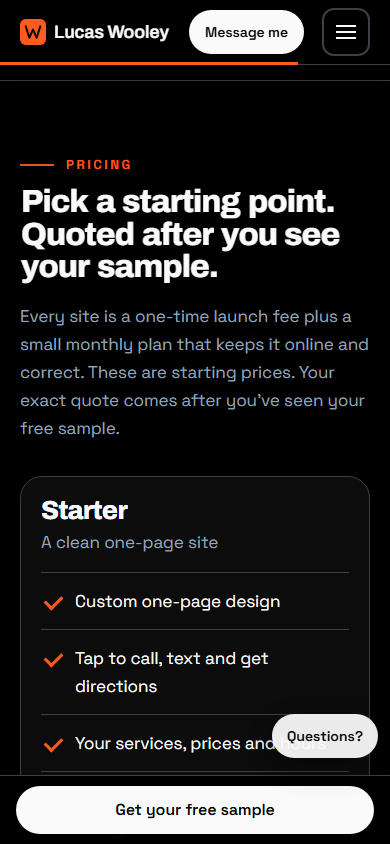
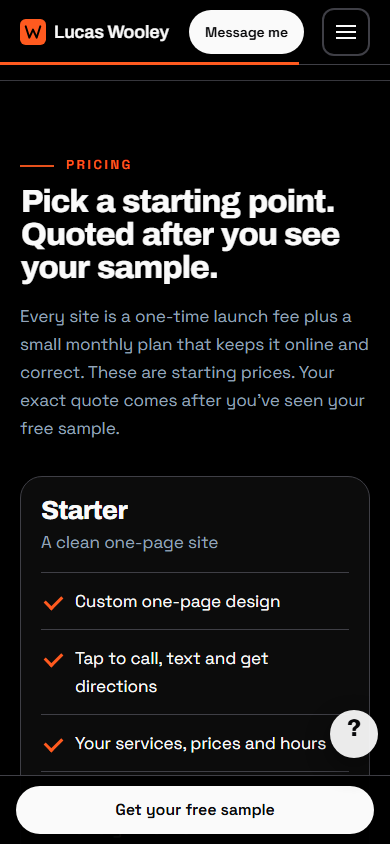
v2: fix cut-off bottom cards (class-name collisions), complete Real reviews and Kept running cards, grid and headline fit every screen size, caption alignment

diff --git a/sites/self-v2/dist/index.html b/sites/self-v2/dist/index.html
@@ -191,7 +191,7 @@ a.shot:hover .win{transform:translateY(-5px)}
 .sim li::after{content:"\203A";color:var(--pacc,#c2410c);font-weight:700}
 .sim .dock{margin:auto -16px 0;display:grid;grid-template-columns:repeat(3,1fr);background:color-mix(in srgb,currentColor 92%,transparent);color:var(--pbg,#fafafa);text-align:center;font:600 10px/1 'Space Grotesk',sans-serif;letter-spacing:.1em;text-transform:uppercase}
 .sim .dock span{padding:14px 0}
-.cap{margin-top:14px;font-size:13px;color:var(--muted);text-align:center;max-width:280px}
+
 section{padding:76px 0;border-top:1px solid var(--line)}
 .dockbar{position:fixed;left:0;right:0;bottom:0;z-index:25;background:rgba(0,0,0,.96);border-top:1px solid var(--line);padding:10px 16px calc(10px + env(safe-area-inset-bottom));display:none}
 .dockbar .btn{width:100%}
@@ -344,9 +344,9 @@ html{scroll-padding-top:80px}
 .stext h1 em{font-style:normal;color:var(--gold)}
 .caps{display:grid;min-height:8.2em;max-width:46ch}
 .chap{display:block;margin-bottom:6px;font:600 13px 'Space Grotesk',sans-serif;letter-spacing:.18em;text-transform:uppercase;color:var(--gold)}
-.cap p{margin:0}
-.cap{grid-area:1/1;margin:0;color:var(--muted);font-size:clamp(16px,2.2vw,20px);line-height:1.5;opacity:0;visibility:hidden;transform:translateY(8px);transition:opacity .28s cubic-bezier(.23,1,.32,1),transform .28s cubic-bezier(.23,1,.32,1),visibility 0s .28s}
-.cap.on{opacity:1;visibility:visible;transform:none;transition-delay:0s}
+.scap p{margin:0}
+.scap{grid-area:1/1;margin:0;color:var(--muted);font-size:clamp(16px,2.2vw,20px);line-height:1.5;opacity:0;visibility:hidden;transform:translateY(8px);transition:opacity .28s cubic-bezier(.23,1,.32,1),transform .28s cubic-bezier(.23,1,.32,1),visibility 0s .28s}
+.scap.on{opacity:1;visibility:visible;transform:none;transition-delay:0s}
 .stext .cta{margin-top:18px}
 @media (max-width:899px){.stext .trust{display:none}.stext .k{font-size:13px}.stext .cta{margin-top:12px}.stext .btn{min-height:46px;padding:0 20px;font-size:15px}}
 .scrollhint{margin-top:18px;font:600 12px 'Space Grotesk',sans-serif;letter-spacing:.16em;text-transform:uppercase;color:var(--gold)}
@@ -355,7 +355,7 @@ html{scroll-padding-top:80px}
 .pieces{width:100%;height:100%;max-height:100%;overflow:visible}
 .stage .bg{z-index:0}
 .shopdone{display:block;width:min(100%,380px);height:auto;margin:30px 0 8px}
-@media (prefers-reduced-motion:reduce){.story{height:auto}.stage{position:relative;top:0;height:auto;padding:36px 0 20px}.scrollhint{display:none}.cap{transition:none}}
+@media (prefers-reduced-motion:reduce){.story{height:auto}.stage{position:relative;top:0;height:auto;padding:36px 0 20px}.scrollhint{display:none}.scap{transition:none}}
 .pieces [data-p]{transition:filter .25s}
 .pieces [data-p].hot{filter:drop-shadow(0 0 8px rgba(255,90,31,.9))}
 
@@ -470,7 +470,7 @@ a.shot:hover .win{box-shadow:0 0 0 2px #fafafa,0 26px 50px rgba(0,0,0,.6)}
 .pc.hot{border-color:var(--gold);box-shadow:0 0 0 1px var(--gold),0 0 34px rgba(255,90,31,.5)}
 .pc .pt{margin:0;font:700 13px/1.2 'Space Grotesk',sans-serif;letter-spacing:.14em;text-transform:uppercase;color:#a1a1aa}
 .pc svg{width:18px;height:18px;flex:none}
-.pc .row{display:flex;align-items:center;gap:8px;flex-wrap:wrap}
+.pc .prow{display:flex;align-items:center;gap:8px;flex-wrap:wrap}
 .pc .pill{display:inline-flex;align-items:center;gap:6px;min-height:34px;padding:0 14px;border-radius:999px;border:1.5px solid #52525b;font:600 14px/1 'Space Grotesk',sans-serif}
 .pc .pill.solid{background:#fafafa;color:#09090b;border-color:#fafafa}
 .pc .stars{font-style:normal;color:var(--gold);letter-spacing:2px;font-size:15px}
@@ -491,7 +491,7 @@ a.shot:hover .win{box-shadow:0 0 0 2px #fafafa,0 26px 50px rgba(0,0,0,.6)}
 .pc-serv li{display:flex;justify-content:space-between;padding:5px 0;border-top:1px solid #27272a;font-size:14px}
 .pc-serv li::after{content:"\203A";color:var(--gold);font-weight:700}
 .pc-hours{grid-column:3/5}
-.pc-hours .row svg{color:var(--gold)}
+.pc-hours .prow svg{color:var(--gold)}
 .pc-follow{grid-column:5/7}
 .pc-follow .bub{padding:7px 11px;border-radius:14px 14px 14px 4px;background:#27272a;font-size:13px;align-self:flex-start}
 .pc-follow .bub.me{background:var(--gold);color:#09090b;border-radius:14px 14px 4px 14px;align-self:flex-end;font-weight:600}
@@ -557,6 +557,87 @@ a.shot:hover .win{box-shadow:0 0 0 2px #fafafa,0 26px 50px rgba(0,0,0,.6)}
   .ask-fab{width:48px;height:48px;min-height:48px;padding:0;font-size:0;border-radius:50%;display:grid;place-items:center;right:12px}
   .ask-fab::before{content:"?";font:800 24px/1 Archivo,'Helvetica Neue',Arial,sans-serif;color:#09090b}
 }
+
+/* bento: always fits inside the screen, and the last two cards are complete */
+.sart{align-self:stretch;display:flex;align-items:center;min-height:0}
+.bento{height:100%;max-height:calc(100vh - 64px - 56px);max-height:calc(100dvh - 64px - 56px);grid-template-rows:repeat(4,minmax(0,1fr));grid-auto-rows:auto;align-content:center}
+.pc{min-height:0}
+.pc .tiny{font-size:13px;color:#a1a1aa}
+.pc .sk{display:grid;gap:6px}
+.pc .sk i{display:block;height:7px;border-radius:4px;background:#27272a}
+.pc .chips{display:flex;gap:6px;flex-wrap:wrap}
+.pc .chips span{padding:4px 10px;border-radius:999px;background:#27272a;font:600 13px/1.2 'Space Grotesk',sans-serif;color:#e4e4e7}
+@media (max-width:899px){
+  .bento{max-height:none;height:auto;grid-template-rows:none;grid-auto-rows:56px}
+  .pc .sk,.pc .chips,.pc .tiny{display:none!important}
+}
+
+/* fit: cards never clip their content, and the headline column + grid scale to the screen height */
+.pc{overflow:visible;min-width:0;padding:12px 13px;gap:6px}
+.pc>*{min-width:0;max-width:100%}
+.pc .prow{min-width:0;gap:6px}
+.pc .pill{min-width:0;padding:0 11px;white-space:nowrap}
+.pc .pill svg{width:15px;height:15px}
+.pc-hours .prow span{white-space:nowrap}
+@media (min-width:900px){
+  .stext h1{font-size:clamp(32px,min(5.4vw,8.6vh),74px)}
+}
+@media (min-width:900px) and (max-height:780px){
+  .stext .trust{display:none}
+  .stext .cta{margin-top:12px}
+  .watch{margin-top:10px;min-height:44px}
+  .caps{min-height:6.4em}
+  .pc-search .sres .ok{display:none}
+  .pc{padding:9px 11px;gap:4px}
+}
+@media (min-width:900px) and (max-height:660px){
+  .stext .k{display:none}
+  .caps{min-height:5.4em}
+  .caps p{font-size:15px}
+  .pc-book .cal{gap:3px}
+  .pc .pt{font-size:12px}
+}
+@media (max-width:899px){
+  .stext h1{font-size:clamp(24px,min(7.4vw,4.7vh),48px);margin:8px 0 10px}
+}
+@media (max-width:899px) and (max-height:780px){
+  .bento{grid-auto-rows:46px;gap:5px}
+  .pc{padding:5px 8px}
+  .pc .pt{line-height:1.08}
+  .stext .k{display:none}
+  .caps{min-height:7.6em}
+  .stage .wrap{gap:8px}
+}
+@media (max-width:899px) and (max-height:640px){
+  .bento{grid-auto-rows:40px;gap:4px}
+  .caps{min-height:5.6em}
+  .caps p{font-size:14px;line-height:1.4}
+  .stext h1{font-size:clamp(22px,6.6vw,30px)}
+}
+
+@media (max-width:899px) and (max-height:600px){
+  .stext h1{font-size:22px;margin:4px 0 6px}
+  .caps{min-height:4.4em}
+  .caps p{font-size:13px;line-height:1.35}
+  .bento{grid-auto-rows:38px;gap:4px}
+  .stage .wrap{gap:6px}
+}
+
+/* very short desktop windows: show the most important line of the two fullest cards */
+@media (min-width:900px) and (max-height:790px){
+  .pc-serv li:last-child{display:none}
+  .pc-follow .bub:first-of-type{display:none}
+}
+@media (min-width:900px) and (max-height:640px){
+  .pc-serv .pt,.pc-follow .pt,.pc-hours .pt,.pc-call .pt,.pc-rev .pt,.pc-run .pt,.pc-book .pt{letter-spacing:.08em}
+  .pc-follow .bub{padding:5px 9px}
+  .pc-serv li{padding:3px 0}
+}
+
+@media (min-width:900px){
+  .sart{padding-bottom:84px}
+  .bento{max-height:calc(100vh - 64px - 124px);max-height:calc(100dvh - 64px - 124px)}
+}
 </style>
 
 </head>
@@ -591,16 +672,16 @@ a.shot:hover .win{box-shadow:0 0 0 2px #fafafa,0 26px 50px rgba(0,0,0,.6)}
         <div class="k">Northern Nevada &middot; Websites for local businesses</div>
         <h1>A website that makes your business look <em>as good as it is.</em></h1>
         <div class="caps" aria-live="off">
-          <div class="cap" data-cap="0"><b class="chap">Scattered</b><p>Hours on one site, a phone number on another, a link that goes nowhere. Customers find pieces, never the whole business.</p></div>
-          <div class="cap" data-cap="1"><b class="chap">Piece 1 of 8 &middot; Found on Google</b><p>Clear titles, descriptions and business details, so people nearby can find you.</p></div>
-          <div class="cap" data-cap="2"><b class="chap">Piece 2 of 8 &middot; Calls &amp; texts</b><p>One tap to call or text you, on every screen.</p></div>
-          <div class="cap" data-cap="3"><b class="chap">Piece 3 of 8 &middot; Online booking</b><p>Customers book on your site, and your calendar and client list update themselves.</p></div>
-          <div class="cap" data-cap="4"><b class="chap">Piece 4 of 8 &middot; Services &amp; prices</b><p>What you offer and what it costs, in one clear place.</p></div>
-          <div class="cap" data-cap="5"><b class="chap">Piece 5 of 8 &middot; Hours &amp; directions</b><p>Today's hours, your address and a one-tap map.</p></div>
-          <div class="cap" data-cap="6"><b class="chap">Piece 6 of 8 &middot; Follow-ups</b><p>A quick message after a visit or a missed call, so no one slips away.</p></div>
-          <div class="cap" data-cap="7"><b class="chap">Piece 7 of 8 &middot; Real reviews</b><p>What customers actually say, shown honestly and linked to the source.</p></div>
-          <div class="cap" data-cap="8"><b class="chap">Piece 8 of 8 &middot; Kept running</b><p>Domain, hosting and small edits are handled, so it stays correct.</p></div>
-          <div class="cap on" data-cap="9"><b class="chap">Open for business</b><p>Every piece in place: one clear picture of your business as it really is.</p></div>
+          <div class="scap" data-cap="0"><b class="chap">Scattered</b><p>Hours on one site, a phone number on another, a link that goes nowhere. Customers find pieces, never the whole business.</p></div>
+          <div class="scap" data-cap="1"><b class="chap">Piece 1 of 8 &middot; Found on Google</b><p>Clear titles, descriptions and business details, so people nearby can find you.</p></div>
+          <div class="scap" data-cap="2"><b class="chap">Piece 2 of 8 &middot; Calls &amp; texts</b><p>One tap to call or text you, on every screen.</p></div>
+          <div class="scap" data-cap="3"><b class="chap">Piece 3 of 8 &middot; Online booking</b><p>Customers book on your site, and your calendar and client list update themselves.</p></div>
+          <div class="scap" data-cap="4"><b class="chap">Piece 4 of 8 &middot; Services &amp; prices</b><p>What you offer and what it costs, in one clear place.</p></div>
+          <div class="scap" data-cap="5"><b class="chap">Piece 5 of 8 &middot; Hours &amp; directions</b><p>Today's hours, your address and a one-tap map.</p></div>
+          <div class="scap" data-cap="6"><b class="chap">Piece 6 of 8 &middot; Follow-ups</b><p>A quick message after a visit or a missed call, so no one slips away.</p></div>
+          <div class="scap" data-cap="7"><b class="chap">Piece 7 of 8 &middot; Real reviews</b><p>What customers actually say, shown honestly and linked to the source.</p></div>
+          <div class="scap" data-cap="8"><b class="chap">Piece 8 of 8 &middot; Kept running</b><p>Domain, hosting and small edits are handled, so it stays correct.</p></div>
+          <div class="scap on" data-cap="9"><b class="chap">Open for business</b><p>Every piece in place: one clear picture of your business as it really is.</p></div>
         </div>
         <div class="cta">
           <a class="btn" href="#contact">Get your free sample</a>
@@ -611,13 +692,13 @@ a.shot:hover .win{box-shadow:0 0 0 2px #fafafa,0 26px 50px rgba(0,0,0,.6)}
       </div>
       <div class="sart"><div class="bento" id="bento" aria-hidden="true">
         <article class="pc pc-search" data-title="Found on Google" data-sub="Clear titles, descriptions and business details, so people nearby can find you."><div class="sbar"><svg viewBox="0 0 24 24" aria-hidden="true"><circle cx="10" cy="10" r="6" fill="none" stroke="currentColor" stroke-width="2.4"/><path d="M15 15l6 6" stroke="currentColor" stroke-width="2.6" stroke-linecap="round"/></svg><span>your business name</span></div><div class="sres"><b>Your Business | Your Town</b><span><i class="stars" aria-hidden="true">&#9733;&#9733;&#9733;&#9733;&#9733;</i> Open now</span><span class="ok">Website: Found</span></div></article>
-        <article class="pc pc-call" data-title="Calls &amp; texts" data-sub="One tap to call or text you, on every screen."><p class="pt">Calls &amp; texts</p><div class="row"><span class="pill solid"><svg viewBox="0 0 24 24" aria-hidden="true"><path d="M6.6 3.5 9.2 3l1.4 4-1.8 1.3a11 11 0 0 0 5.9 5.9L16 12.4l4 1.4-.5 2.6A2.6 2.6 0 0 1 17 18.5 14.5 14.5 0 0 1 5.5 7a2.6 2.6 0 0 1 1.1-3.5Z" fill="currentColor"/></svg>Call</span><span class="pill">Text</span></div></article>
+        <article class="pc pc-call" data-title="Calls &amp; texts" data-sub="One tap to call or text you, on every screen."><p class="pt">Calls &amp; texts</p><div class="prow"><span class="pill solid"><svg viewBox="0 0 24 24" aria-hidden="true"><path d="M6.6 3.5 9.2 3l1.4 4-1.8 1.3a11 11 0 0 0 5.9 5.9L16 12.4l4 1.4-.5 2.6A2.6 2.6 0 0 1 17 18.5 14.5 14.5 0 0 1 5.5 7a2.6 2.6 0 0 1 1.1-3.5Z" fill="currentColor"/></svg>Call</span><span class="pill">Text</span></div></article>
         <article class="pc pc-book" data-title="Online booking" data-sub="Customers book on your site, and your calendar and client list update themselves."><p class="pt">Online booking</p><div class="cal"><i class="dim"></i><i class="dim"></i><i class=""></i><i class=""></i><i class=""></i><i class=""></i><i class="dim"></i><i class="dim"></i><i class=""></i><i class=""></i><i class="on"></i><i class=""></i><i class=""></i><i class=""></i><i class=""></i><i class=""></i><i class=""></i><i class=""></i><i class=""></i><i class=""></i><i class=""></i></div><span class="pill solid">Book</span></article>
         <article class="pc pc-serv" data-title="Services &amp; prices" data-sub="What you offer and what it costs, in one clear place."><p class="pt">Services &amp; prices</p><ul><li>Cuts &amp; styling</li><li>Color</li><li>Nails &amp; lashes</li></ul></article>
-        <article class="pc pc-hours" data-title="Hours &amp; directions" data-sub="Today's hours, your address and a one-tap map."><p class="pt">Hours &amp; directions</p><div class="row"><svg viewBox="0 0 24 24" aria-hidden="true"><path d="M12 2.5a6.5 6.5 0 0 0-6.5 6.5c0 4.6 6.5 12.5 6.5 12.5s6.5-7.9 6.5-12.5A6.5 6.5 0 0 0 12 2.5Zm0 8.8a2.3 2.3 0 1 1 0-4.6 2.3 2.3 0 0 1 0 4.6Z" fill="currentColor"/></svg><span>Open today</span></div></article>
+        <article class="pc pc-hours" data-title="Hours &amp; directions" data-sub="Today's hours, your address and a one-tap map."><p class="pt">Hours &amp; directions</p><div class="prow"><svg viewBox="0 0 24 24" aria-hidden="true"><path d="M12 2.5a6.5 6.5 0 0 0-6.5 6.5c0 4.6 6.5 12.5 6.5 12.5s6.5-7.9 6.5-12.5A6.5 6.5 0 0 0 12 2.5Zm0 8.8a2.3 2.3 0 1 1 0-4.6 2.3 2.3 0 0 1 0 4.6Z" fill="currentColor"/></svg><span>Open today</span></div></article>
         <article class="pc pc-follow" data-title="Follow-ups" data-sub="A quick message after a visit or a missed call, so no one slips away."><p class="pt">Follow-ups</p><div class="bub">Thanks for coming in!</div><div class="bub me">Book your next visit?</div></article>
-        <article class="pc pc-rev" data-title="Real reviews" data-sub="What customers actually say, shown honestly and linked to the source."><p class="pt">Real reviews</p><div class="row"><i class="stars" aria-hidden="true">&#9733;&#9733;&#9733;&#9733;&#9733;</i></div></article>
-        <article class="pc pc-run" data-title="Kept running" data-sub="Domain, hosting and small edits are handled, so it stays correct."><p class="pt">Kept running</p><div class="row"><i class="dot"></i><span>Online, hosting handled</span></div></article>
+        <article class="pc pc-rev" data-title="Real reviews" data-sub="What customers actually say, shown honestly and linked to the source."><p class="pt">Real reviews</p><div class="prow"><i class="stars" aria-hidden="true">&#9733;&#9733;&#9733;&#9733;&#9733;</i><span class="tiny">from real customers</span></div><div class="sk"><i style="width:92%"></i><i style="width:68%"></i></div></article>
+        <article class="pc pc-run" data-title="Kept running" data-sub="Domain, hosting and small edits are handled, so it stays correct."><p class="pt">Kept running</p><div class="prow"><i class="dot"></i><span>Online</span></div><div class="chips"><span>Hosting</span><span>Domain</span><span>Edits</span></div></article>
       </div></div>
     </div>
   </div>
@@ -1198,7 +1279,7 @@ document.querySelectorAll(".faq button").forEach(function (b) {
   var st = document.getElementById("story"), stage = st && st.querySelector(".stage"), bento = document.getElementById("bento"), cv = document.getElementById("twister");
   if (!st || !stage || !bento) return;
   var still = matchMedia("(prefers-reduced-motion: reduce)").matches;
-  var P = [].slice.call(bento.querySelectorAll(".pc")), caps = [].slice.call(st.querySelectorAll(".cap"));
+  var P = [].slice.call(bento.querySelectorAll(".pc")), caps = [].slice.call(st.querySelectorAll(".scap"));
   function clamp(v, lo, hi) { return Math.max(lo, Math.min(hi, v)); }
   function ease(t) { return t < 0.5 ? 4 * t * t * t : 1 - Math.pow(-2 * t + 2, 3) / 2; }
   function lerp(a, b, t) { return a + (b - a) * t; }

diff --git a/sites/self-v2/src/body.html b/sites/self-v2/src/body.html
@@ -28,16 +28,16 @@
         <div class="k">%%AREA%% &middot; Websites for local businesses</div>
         <h1>A website that makes your business look <em>as good as it is.</em></h1>
         <div class="caps" aria-live="off">
-          <div class="cap" data-cap="0"><b class="chap">Scattered</b><p>Hours on one site, a phone number on another, a link that goes nowhere. Customers find pieces, never the whole business.</p></div>
-          <div class="cap" data-cap="1"><b class="chap">Piece 1 of 8 &middot; Found on Google</b><p>Clear titles, descriptions and business details, so people nearby can find you.</p></div>
-          <div class="cap" data-cap="2"><b class="chap">Piece 2 of 8 &middot; Calls &amp; texts</b><p>One tap to call or text you, on every screen.</p></div>
-          <div class="cap" data-cap="3"><b class="chap">Piece 3 of 8 &middot; Online booking</b><p>Customers book on your site, and your calendar and client list update themselves.</p></div>
-          <div class="cap" data-cap="4"><b class="chap">Piece 4 of 8 &middot; Services &amp; prices</b><p>What you offer and what it costs, in one clear place.</p></div>
-          <div class="cap" data-cap="5"><b class="chap">Piece 5 of 8 &middot; Hours &amp; directions</b><p>Today's hours, your address and a one-tap map.</p></div>
-          <div class="cap" data-cap="6"><b class="chap">Piece 6 of 8 &middot; Follow-ups</b><p>A quick message after a visit or a missed call, so no one slips away.</p></div>
-          <div class="cap" data-cap="7"><b class="chap">Piece 7 of 8 &middot; Real reviews</b><p>What customers actually say, shown honestly and linked to the source.</p></div>
-          <div class="cap" data-cap="8"><b class="chap">Piece 8 of 8 &middot; Kept running</b><p>Domain, hosting and small edits are handled, so it stays correct.</p></div>
-          <div class="cap on" data-cap="9"><b class="chap">Open for business</b><p>Every piece in place: one clear picture of your business as it really is.</p></div>
+          <div class="scap" data-cap="0"><b class="chap">Scattered</b><p>Hours on one site, a phone number on another, a link that goes nowhere. Customers find pieces, never the whole business.</p></div>
+          <div class="scap" data-cap="1"><b class="chap">Piece 1 of 8 &middot; Found on Google</b><p>Clear titles, descriptions and business details, so people nearby can find you.</p></div>
+          <div class="scap" data-cap="2"><b class="chap">Piece 2 of 8 &middot; Calls &amp; texts</b><p>One tap to call or text you, on every screen.</p></div>
+          <div class="scap" data-cap="3"><b class="chap">Piece 3 of 8 &middot; Online booking</b><p>Customers book on your site, and your calendar and client list update themselves.</p></div>
+          <div class="scap" data-cap="4"><b class="chap">Piece 4 of 8 &middot; Services &amp; prices</b><p>What you offer and what it costs, in one clear place.</p></div>
+          <div class="scap" data-cap="5"><b class="chap">Piece 5 of 8 &middot; Hours &amp; directions</b><p>Today's hours, your address and a one-tap map.</p></div>
+          <div class="scap" data-cap="6"><b class="chap">Piece 6 of 8 &middot; Follow-ups</b><p>A quick message after a visit or a missed call, so no one slips away.</p></div>
+          <div class="scap" data-cap="7"><b class="chap">Piece 7 of 8 &middot; Real reviews</b><p>What customers actually say, shown honestly and linked to the source.</p></div>
+          <div class="scap" data-cap="8"><b class="chap">Piece 8 of 8 &middot; Kept running</b><p>Domain, hosting and small edits are handled, so it stays correct.</p></div>
+          <div class="scap on" data-cap="9"><b class="chap">Open for business</b><p>Every piece in place: one clear picture of your business as it really is.</p></div>
         </div>
         <div class="cta">
           <a class="btn" href="#contact">Get your free sample</a>
@@ -48,13 +48,13 @@
       </div>
       <div class="sart"><div class="bento" id="bento" aria-hidden="true">
         <article class="pc pc-search" data-title="Found on Google" data-sub="Clear titles, descriptions and business details, so people nearby can find you."><div class="sbar"><svg viewBox="0 0 24 24" aria-hidden="true"><circle cx="10" cy="10" r="6" fill="none" stroke="currentColor" stroke-width="2.4"/><path d="M15 15l6 6" stroke="currentColor" stroke-width="2.6" stroke-linecap="round"/></svg><span>your business name</span></div><div class="sres"><b>Your Business | Your Town</b><span><i class="stars" aria-hidden="true">&#9733;&#9733;&#9733;&#9733;&#9733;</i> Open now</span><span class="ok">Website: Found</span></div></article>
-        <article class="pc pc-call" data-title="Calls &amp; texts" data-sub="One tap to call or text you, on every screen."><p class="pt">Calls &amp; texts</p><div class="row"><span class="pill solid"><svg viewBox="0 0 24 24" aria-hidden="true"><path d="M6.6 3.5 9.2 3l1.4 4-1.8 1.3a11 11 0 0 0 5.9 5.9L16 12.4l4 1.4-.5 2.6A2.6 2.6 0 0 1 17 18.5 14.5 14.5 0 0 1 5.5 7a2.6 2.6 0 0 1 1.1-3.5Z" fill="currentColor"/></svg>Call</span><span class="pill">Text</span></div></article>
+        <article class="pc pc-call" data-title="Calls &amp; texts" data-sub="One tap to call or text you, on every screen."><p class="pt">Calls &amp; texts</p><div class="prow"><span class="pill solid"><svg viewBox="0 0 24 24" aria-hidden="true"><path d="M6.6 3.5 9.2 3l1.4 4-1.8 1.3a11 11 0 0 0 5.9 5.9L16 12.4l4 1.4-.5 2.6A2.6 2.6 0 0 1 17 18.5 14.5 14.5 0 0 1 5.5 7a2.6 2.6 0 0 1 1.1-3.5Z" fill="currentColor"/></svg>Call</span><span class="pill">Text</span></div></article>
         <article class="pc pc-book" data-title="Online booking" data-sub="Customers book on your site, and your calendar and client list update themselves."><p class="pt">Online booking</p><div class="cal"><i class="dim"></i><i class="dim"></i><i class=""></i><i class=""></i><i class=""></i><i class=""></i><i class="dim"></i><i class="dim"></i><i class=""></i><i class=""></i><i class="on"></i><i class=""></i><i class=""></i><i class=""></i><i class=""></i><i class=""></i><i class=""></i><i class=""></i><i class=""></i><i class=""></i><i class=""></i></div><span class="pill solid">Book</span></article>
         <article class="pc pc-serv" data-title="Services &amp; prices" data-sub="What you offer and what it costs, in one clear place."><p class="pt">Services &amp; prices</p><ul><li>Cuts &amp; styling</li><li>Color</li><li>Nails &amp; lashes</li></ul></article>
-        <article class="pc pc-hours" data-title="Hours &amp; directions" data-sub="Today's hours, your address and a one-tap map."><p class="pt">Hours &amp; directions</p><div class="row"><svg viewBox="0 0 24 24" aria-hidden="true"><path d="M12 2.5a6.5 6.5 0 0 0-6.5 6.5c0 4.6 6.5 12.5 6.5 12.5s6.5-7.9 6.5-12.5A6.5 6.5 0 0 0 12 2.5Zm0 8.8a2.3 2.3 0 1 1 0-4.6 2.3 2.3 0 0 1 0 4.6Z" fill="currentColor"/></svg><span>Open today</span></div></article>
+        <article class="pc pc-hours" data-title="Hours &amp; directions" data-sub="Today's hours, your address and a one-tap map."><p class="pt">Hours &amp; directions</p><div class="prow"><svg viewBox="0 0 24 24" aria-hidden="true"><path d="M12 2.5a6.5 6.5 0 0 0-6.5 6.5c0 4.6 6.5 12.5 6.5 12.5s6.5-7.9 6.5-12.5A6.5 6.5 0 0 0 12 2.5Zm0 8.8a2.3 2.3 0 1 1 0-4.6 2.3 2.3 0 0 1 0 4.6Z" fill="currentColor"/></svg><span>Open today</span></div></article>
         <article class="pc pc-follow" data-title="Follow-ups" data-sub="A quick message after a visit or a missed call, so no one slips away."><p class="pt">Follow-ups</p><div class="bub">Thanks for coming in!</div><div class="bub me">Book your next visit?</div></article>
-        <article class="pc pc-rev" data-title="Real reviews" data-sub="What customers actually say, shown honestly and linked to the source."><p class="pt">Real reviews</p><div class="row"><i class="stars" aria-hidden="true">&#9733;&#9733;&#9733;&#9733;&#9733;</i></div></article>
-        <article class="pc pc-run" data-title="Kept running" data-sub="Domain, hosting and small edits are handled, so it stays correct."><p class="pt">Kept running</p><div class="row"><i class="dot"></i><span>Online, hosting handled</span></div></article>
+        <article class="pc pc-rev" data-title="Real reviews" data-sub="What customers actually say, shown honestly and linked to the source."><p class="pt">Real reviews</p><div class="prow"><i class="stars" aria-hidden="true">&#9733;&#9733;&#9733;&#9733;&#9733;</i><span class="tiny">from real customers</span></div><div class="sk"><i style="width:92%"></i><i style="width:68%"></i></div></article>
+        <article class="pc pc-run" data-title="Kept running" data-sub="Domain, hosting and small edits are handled, so it stays correct."><p class="pt">Kept running</p><div class="prow"><i class="dot"></i><span>Online</span></div><div class="chips"><span>Hosting</span><span>Domain</span><span>Edits</span></div></article>
       </div></div>
     </div>
   </div>

diff --git a/sites/self-v2/src/head.html b/sites/self-v2/src/head.html
@@ -182,7 +182,7 @@ a.shot:hover .win{transform:translateY(-5px)}
 .sim li::after{content:"\203A";color:var(--pacc,#c2410c);font-weight:700}
 .sim .dock{margin:auto -16px 0;display:grid;grid-template-columns:repeat(3,1fr);background:color-mix(in srgb,currentColor 92%,transparent);color:var(--pbg,#fafafa);text-align:center;font:600 10px/1 'Space Grotesk',sans-serif;letter-spacing:.1em;text-transform:uppercase}
 .sim .dock span{padding:14px 0}
-.cap{margin-top:14px;font-size:13px;color:var(--muted);text-align:center;max-width:280px}
+
 section{padding:76px 0;border-top:1px solid var(--line)}
 .dockbar{position:fixed;left:0;right:0;bottom:0;z-index:25;background:rgba(0,0,0,.96);border-top:1px solid var(--line);padding:10px 16px calc(10px + env(safe-area-inset-bottom));display:none}
 .dockbar .btn{width:100%}
@@ -335,9 +335,9 @@ html{scroll-padding-top:80px}
 .stext h1 em{font-style:normal;color:var(--gold)}
 .caps{display:grid;min-height:8.2em;max-width:46ch}
 .chap{display:block;margin-bottom:6px;font:600 13px 'Space Grotesk',sans-serif;letter-spacing:.18em;text-transform:uppercase;color:var(--gold)}
-.cap p{margin:0}
-.cap{grid-area:1/1;margin:0;color:var(--muted);font-size:clamp(16px,2.2vw,20px);line-height:1.5;opacity:0;visibility:hidden;transform:translateY(8px);transition:opacity .28s cubic-bezier(.23,1,.32,1),transform .28s cubic-bezier(.23,1,.32,1),visibility 0s .28s}
-.cap.on{opacity:1;visibility:visible;transform:none;transition-delay:0s}
+.scap p{margin:0}
+.scap{grid-area:1/1;margin:0;color:var(--muted);font-size:clamp(16px,2.2vw,20px);line-height:1.5;opacity:0;visibility:hidden;transform:translateY(8px);transition:opacity .28s cubic-bezier(.23,1,.32,1),transform .28s cubic-bezier(.23,1,.32,1),visibility 0s .28s}
+.scap.on{opacity:1;visibility:visible;transform:none;transition-delay:0s}
 .stext .cta{margin-top:18px}
 @media (max-width:899px){.stext .trust{display:none}.stext .k{font-size:13px}.stext .cta{margin-top:12px}.stext .btn{min-height:46px;padding:0 20px;font-size:15px}}
 .scrollhint{margin-top:18px;font:600 12px 'Space Grotesk',sans-serif;letter-spacing:.16em;text-transform:uppercase;color:var(--gold)}
@@ -346,7 +346,7 @@ html{scroll-padding-top:80px}
 .pieces{width:100%;height:100%;max-height:100%;overflow:visible}
 .stage .bg{z-index:0}
 .shopdone{display:block;width:min(100%,380px);height:auto;margin:30px 0 8px}
-@media (prefers-reduced-motion:reduce){.story{height:auto}.stage{position:relative;top:0;height:auto;padding:36px 0 20px}.scrollhint{display:none}.cap{transition:none}}
+@media (prefers-reduced-motion:reduce){.story{height:auto}.stage{position:relative;top:0;height:auto;padding:36px 0 20px}.scrollhint{display:none}.scap{transition:none}}
 .pieces [data-p]{transition:filter .25s}
 .pieces [data-p].hot{filter:drop-shadow(0 0 8px rgba(255,90,31,.9))}
 
@@ -461,7 +461,7 @@ a.shot:hover .win{box-shadow:0 0 0 2px #fafafa,0 26px 50px rgba(0,0,0,.6)}
 .pc.hot{border-color:var(--gold);box-shadow:0 0 0 1px var(--gold),0 0 34px rgba(255,90,31,.5)}
 .pc .pt{margin:0;font:700 13px/1.2 'Space Grotesk',sans-serif;letter-spacing:.14em;text-transform:uppercase;color:#a1a1aa}
 .pc svg{width:18px;height:18px;flex:none}
-.pc .row{display:flex;align-items:center;gap:8px;flex-wrap:wrap}
+.pc .prow{display:flex;align-items:center;gap:8px;flex-wrap:wrap}
 .pc .pill{display:inline-flex;align-items:center;gap:6px;min-height:34px;padding:0 14px;border-radius:999px;border:1.5px solid #52525b;font:600 14px/1 'Space Grotesk',sans-serif}
 .pc .pill.solid{background:#fafafa;color:#09090b;border-color:#fafafa}
 .pc .stars{font-style:normal;color:var(--gold);letter-spacing:2px;font-size:15px}
@@ -482,7 +482,7 @@ a.shot:hover .win{box-shadow:0 0 0 2px #fafafa,0 26px 50px rgba(0,0,0,.6)}
 .pc-serv li{display:flex;justify-content:space-between;padding:5px 0;border-top:1px solid #27272a;font-size:14px}
 .pc-serv li::after{content:"\203A";color:var(--gold);font-weight:700}
 .pc-hours{grid-column:3/5}
-.pc-hours .row svg{color:var(--gold)}
+.pc-hours .prow svg{color:var(--gold)}
 .pc-follow{grid-column:5/7}
 .pc-follow .bub{padding:7px 11px;border-radius:14px 14px 14px 4px;background:#27272a;font-size:13px;align-self:flex-start}
 .pc-follow .bub.me{background:var(--gold);color:#09090b;border-radius:14px 14px 4px 14px;align-self:flex-end;font-weight:600}
@@ -547,5 +547,86 @@ a.shot:hover .win{box-shadow:0 0 0 2px #fafafa,0 26px 50px rgba(0,0,0,.6)}
 @media (max-width:799px){
   .ask-fab{width:48px;height:48px;min-height:48px;padding:0;font-size:0;border-radius:50%;display:grid;place-items:center;right:12px}
   .ask-fab::before{content:"?";font:800 24px/1 Archivo,'Helvetica Neue',Arial,sans-serif;color:#09090b}
+}
+
+/* bento: always fits inside the screen, and the last two cards are complete */
+.sart{align-self:stretch;display:flex;align-items:center;min-height:0}
+.bento{height:100%;max-height:calc(100vh - 64px - 56px);max-height:calc(100dvh - 64px - 56px);grid-template-rows:repeat(4,minmax(0,1fr));grid-auto-rows:auto;align-content:center}
+.pc{min-height:0}
+.pc .tiny{font-size:13px;color:#a1a1aa}
+.pc .sk{display:grid;gap:6px}
+.pc .sk i{display:block;height:7px;border-radius:4px;background:#27272a}
+.pc .chips{display:flex;gap:6px;flex-wrap:wrap}
+.pc .chips span{padding:4px 10px;border-radius:999px;background:#27272a;font:600 13px/1.2 'Space Grotesk',sans-serif;color:#e4e4e7}
+@media (max-width:899px){
+  .bento{max-height:none;height:auto;grid-template-rows:none;grid-auto-rows:56px}
+  .pc .sk,.pc .chips,.pc .tiny{display:none!important}
+}
+
+/* fit: cards never clip their content, and the headline column + grid scale to the screen height */
+.pc{overflow:visible;min-width:0;padding:12px 13px;gap:6px}
+.pc>*{min-width:0;max-width:100%}
+.pc .prow{min-width:0;gap:6px}
+.pc .pill{min-width:0;padding:0 11px;white-space:nowrap}
+.pc .pill svg{width:15px;height:15px}
+.pc-hours .prow span{white-space:nowrap}
+@media (min-width:900px){
+  .stext h1{font-size:clamp(32px,min(5.4vw,8.6vh),74px)}
+}
+@media (min-width:900px) and (max-height:780px){
+  .stext .trust{display:none}
+  .stext .cta{margin-top:12px}
+  .watch{margin-top:10px;min-height:44px}
+  .caps{min-height:6.4em}
+  .pc-search .sres .ok{display:none}
+  .pc{padding:9px 11px;gap:4px}
+}
+@media (min-width:900px) and (max-height:660px){
+  .stext .k{display:none}
+  .caps{min-height:5.4em}
+  .caps p{font-size:15px}
+  .pc-book .cal{gap:3px}
+  .pc .pt{font-size:12px}
+}
+@media (max-width:899px){
+  .stext h1{font-size:clamp(24px,min(7.4vw,4.7vh),48px);margin:8px 0 10px}
+}
+@media (max-width:899px) and (max-height:780px){
+  .bento{grid-auto-rows:46px;gap:5px}
+  .pc{padding:5px 8px}
+  .pc .pt{line-height:1.08}
+  .stext .k{display:none}
+  .caps{min-height:7.6em}
+  .stage .wrap{gap:8px}
+}
+@media (max-width:899px) and (max-height:640px){
+  .bento{grid-auto-rows:40px;gap:4px}
+  .caps{min-height:5.6em}
+  .caps p{font-size:14px;line-height:1.4}
+  .stext h1{font-size:clamp(22px,6.6vw,30px)}
+}
+
+@media (max-width:899px) and (max-height:600px){
+  .stext h1{font-size:22px;margin:4px 0 6px}
+  .caps{min-height:4.4em}
+  .caps p{font-size:13px;line-height:1.35}
+  .bento{grid-auto-rows:38px;gap:4px}
+  .stage .wrap{gap:6px}
+}
+
+/* very short desktop windows: show the most important line of the two fullest cards */
+@media (min-width:900px) and (max-height:790px){
+  .pc-serv li:last-child{display:none}
+  .pc-follow .bub:first-of-type{display:none}
+}
+@media (min-width:900px) and (max-height:640px){
+  .pc-serv .pt,.pc-follow .pt,.pc-hours .pt,.pc-call .pt,.pc-rev .pt,.pc-run .pt,.pc-book .pt{letter-spacing:.08em}
+  .pc-follow .bub{padding:5px 9px}
+  .pc-serv li{padding:3px 0}
+}
+
+@media (min-width:900px){
+  .sart{padding-bottom:84px}
+  .bento{max-height:calc(100vh - 64px - 124px);max-height:calc(100dvh - 64px - 124px)}
 }
 </style>

diff --git a/sites/self-v2/src/app.js b/sites/self-v2/src/app.js
@@ -214,7 +214,7 @@ document.querySelectorAll(".faq button").forEach(function (b) {
   var st = document.getElementById("story"), stage = st && st.querySelector(".stage"), bento = document.getElementById("bento"), cv = document.getElementById("twister");
   if (!st || !stage || !bento) return;
   var still = matchMedia("(prefers-reduced-motion: reduce)").matches;
-  var P = [].slice.call(bento.querySelectorAll(".pc")), caps = [].slice.call(st.querySelectorAll(".cap"));
+  var P = [].slice.call(bento.querySelectorAll(".pc")), caps = [].slice.call(st.querySelectorAll(".scap"));
   function clamp(v, lo, hi) { return Math.max(lo, Math.min(hi, v)); }
   function ease(t) { return t < 0.5 ? 4 * t * t * t : 1 - Math.pow(-2 * t + 2, 3) / 2; }
   function lerp(a, b, t) { return a + (b - a) * t; }
